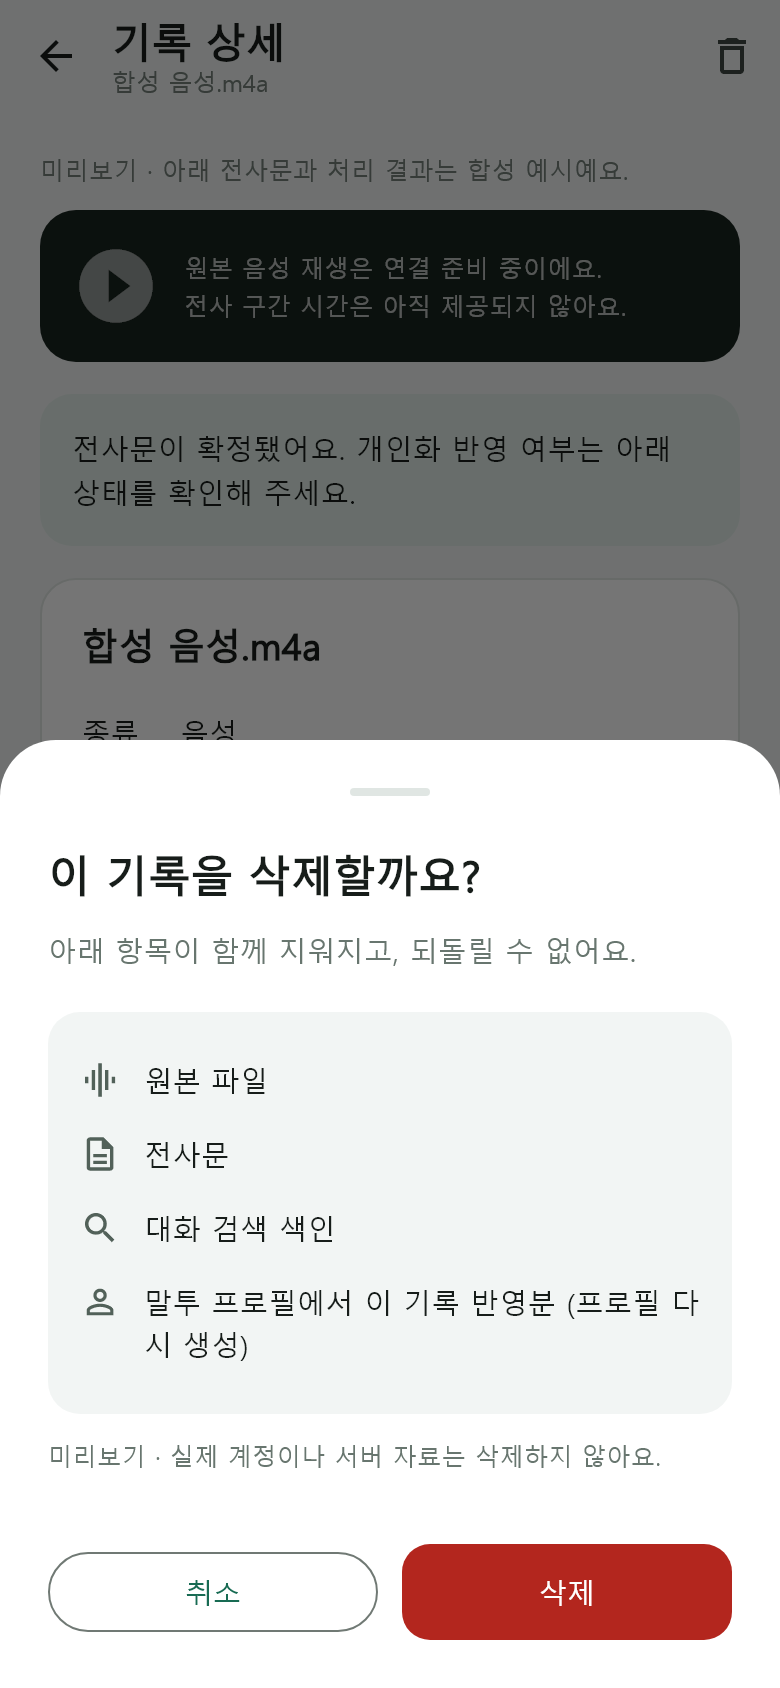
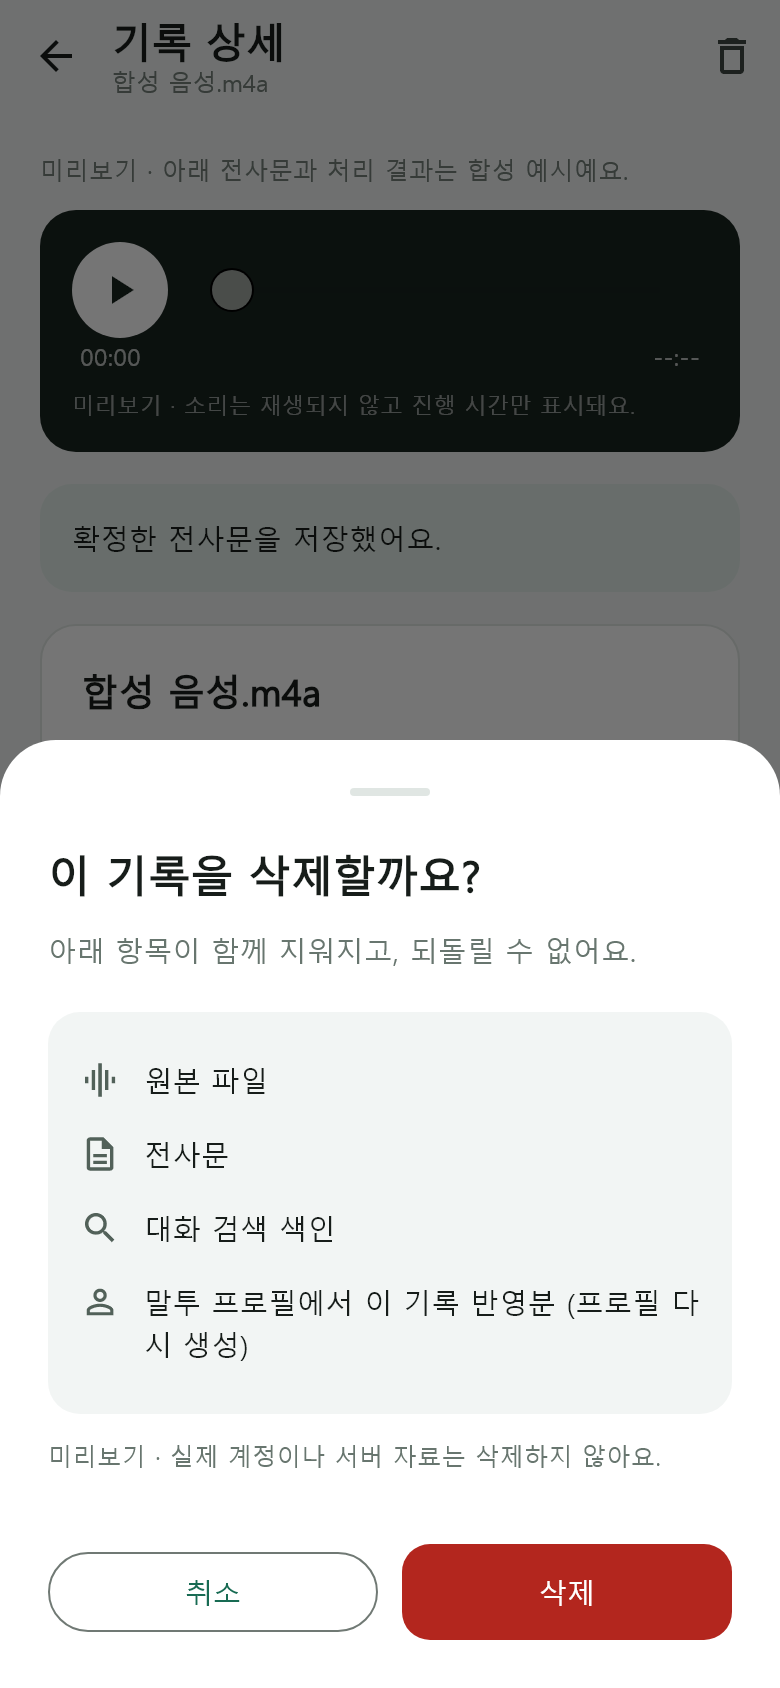
docs(mobile): refresh record screen captures
Re-render docs/screenshots/issue9 from the current record screens and
update the capture notes in the screenshot README, RECORDS.md, SC05.md
and SC06.md, which still described them as outdated images.

diff --git a/mobile/docs/screenshots/issue9/README.md b/mobile/docs/screenshots/issue9/README.md
@@ -1,13 +1,15 @@
 # 기록 화면 미리보기
 
-SC-03·SC-04 기획서를 참고해 390×844 논리 크기에서 Flutter 위젯을 렌더링한 이미지입니다. 실제 기기 캡처가 아닙니다. 합성 파일명·시간·길이·상태를 사용하며 실제 자료 업로드나 개인화 처리를 검증한 화면이 아닙니다.
+SC-03~SC-06 기획서를 참고해 390×844 논리 크기에서 Flutter 위젯을 렌더링한 이미지입니다. 실제 기기 캡처가 아닙니다. 합성 파일명·시간·길이·상태를 사용하며 실제 자료 업로드나 개인화 처리를 검증한 화면이 아닙니다.
 
-- `record-list.png`: 전체·유형 필터, 행 오른쪽의 상태 배지와 실패 항목, 확정 자료 안내. 재시도 API가 없는 서비스에서는 버튼을 비활성화합니다.
-- `record-upload.png`: 기록 종류 카드, 파일 카드·변경, 화자 선택 준비 안내, 동의 카드, 하단 고정 올리기와 취소.
-- `transcript-review.png`: SC-05 전사문 전체 수정, 원본 재생 미연결 안내, 확정 안내와 하단 버튼. API에 구간 시간이 없어 시간 표시는 만들지 않습니다.
-- `record-detail.png`: SC-06을 참고한 확정 기록 상세와 삭제 진입 버튼.
-- `record-delete-confirm.png`, `record-delete-partial-failure.png`: 이슈 #11의 삭제 확인 시트와 남은 검색 색인 표시. 모의 서비스가 반환한 상태이며 실제 파일 삭제 결과가 아닙니다.
+2026-11-13, 기준 커밋 `5f8385b`에서 아래 명령으로 전체를 다시 렌더링했습니다. `record-list.png`는 이전 캡처와 같은 결과가 나와 바뀌지 않았습니다.
 
-화자 목록·메시지 수를 추출하는 기능은 아직 없으며, 기획서의 예시 이름·숫자를 실제 분석 결과처럼 표시하지 않습니다. `ready`만으로 개인화 반영을 증명할 수 없어 실제 API 데이터에는 계속 ‘확인 필요’를 표시합니다. 캡처의 ‘반영됨’은 명시적으로 주입한 합성 상태입니다.
+- `record-list.png`: 전체·유형 필터, 행 오른쪽의 상태 배지(반영됨·확인 필요·전사 중)와 전사 실패 항목의 다시 시도, 확정 자료 안내, 하단 탭.
+- `record-upload.png`: 기록 종류 카드, 파일 카드·변경, 동의 카드, 하단 고정 올리기와 취소. 합성 파일이 일반 텍스트라 화자 선택 단계는 나타나지 않습니다.
+- `transcript-review.png`: SC-05 전사 확인. 미리보기 재생 바(소리 없이 진행 시간만 표시), 확정 안내, 번호가 붙은 전사 구간과 ‘전체 텍스트로 수정’, 하단 나중에·확정하기. 합성 전사에 구간 시간이 없어 구간 이동 불가 안내가 표시됩니다.
+- `record-detail.png`: SC-06 확정 기록 상세. 재생 바, 종류·올린 날·상태·확정일, 전사문 전체 보기, 반영 상태와 새로고침, 삭제 진입 버튼.
+- `record-delete-confirm.png`, `record-delete-partial-failure.png`: 이슈 #11의 삭제 확인 시트와 단계별 결과(검색 색인 남음)·다시 시도. 모의 서비스가 반환한 상태이며 실제 파일 삭제 결과가 아닙니다.
+
+캡처의 ‘반영됨’은 명시적으로 주입한 합성 상태입니다. 현재 ‘반영됨’은 텍스트 업로드 또는 음성 전사문 확정의 서버 저장 성공을 뜻하는 임시 기준이며, 실제 개인화·색인 완료를 증명하지 않습니다.
 
 Windows에서 캡처 재생성: `flutter test --no-pub test/records_design_test.dart --dart-define=RECORD_UI_CAPTURES=true`. 캡처 모드는 Windows 맑은 고딕과 `C:/flutter`의 Material Icons를 로드합니다. 일반 테스트는 해당 파일에 의존하지 않습니다.

diff --git a/mobile/RECORDS.md b/mobile/RECORDS.md
@@ -130,6 +130,6 @@ SC-03~SC-06 화면기획서(`레플리카 화면 기획서_ver.2`)와 2026-10-13
 - `records_transcript_test.dart`: 구간 파싱·검증·정렬, 재생 컨트롤러(지연 열기·탐색·실패 후 재시도·해제), 구간 탭 재생, 불확실 단어 강조, 구간 수정·확정, 시간 정보 없음, 전사 중 자동 갱신, 수정 충돌 선택.
 - `records_status_test.dart`: 반영 상태 판정, 목록 재조회 시 최신 revision·확정 시각 갱신과 조회 실패·동시 요청 격리, 합의 전 훅, 상태 폴링과 간격 조절, 삭제 단계·자동 확인·부분 실패, 계정 삭제 세션·로컬 데이터 정리.
 
-실제 서버, 실기기 파일 선택기·재생·권한, 대용량 전송은 검증하지 못했습니다. 합성 화면 캡처는 `docs/screenshots/issue9/`의 이전 이미지이며 이번 화면 변경은 반영하지 않았습니다. Windows 네이티브 실행은 플러그인의 심볼릭 링크 지원 요구로 현재 환경에서 검증하지 못했습니다. OS 설정은 변경하지 않았습니다.
+실제 서버, 실기기 파일 선택기·재생·권한, 대용량 전송은 검증하지 못했습니다. 합성 화면 캡처 `docs/screenshots/issue9/`는 2026-11-13 현재 화면으로 다시 렌더링했습니다([캡처 안내](docs/screenshots/issue9/README.md)). Windows 네이티브 실행은 플러그인의 심볼릭 링크 지원 요구로 현재 환경에서 검증하지 못했습니다. OS 설정은 변경하지 않았습니다.
 
 파일 선택기는 Flutter 공식 [file_selector](https://pub.dev/packages/file_selector) 1.1.0을 사용합니다. macOS에는 사용자가 선택한 파일의 읽기 권한을 추가했습니다.

diff --git a/mobile/SC06.md b/mobile/SC06.md
@@ -34,4 +34,4 @@
 
 ## 검증
 
-2026-11-05: 전체 테스트 통과(RECORDS.md 참고), 정적 분석 문제 없음, 웹 빌드 성공. `test/record_deletion_test.dart`(완료 판정, 중복 요청 방지, 취소 무요청, 부분 실패·같은 작업 재시도, 지연 응답, 목록 복구·초안 정리, 계정 삭제 전후 로그인 상태, 작은 화면, 실제 어댑터의 경로·인증과 미합의 요청 차단)와 `test/records_status_test.dart`(단계 목록, 자동 확인과 상한, 실패 작업의 수동 확인, 시도 횟수·오류 코드, 계정 삭제 시 세션·로컬 데이터 정리와 이전 세션 무시)에서 모의 응답으로 검사합니다. 실제 삭제는 실행하지 않았습니다. `docs/screenshots/issue9/record-delete-*.png`는 이전 합성 이미지입니다.
+2026-11-05: 전체 테스트 통과(RECORDS.md 참고), 정적 분석 문제 없음, 웹 빌드 성공. `test/record_deletion_test.dart`(완료 판정, 중복 요청 방지, 취소 무요청, 부분 실패·같은 작업 재시도, 지연 응답, 목록 복구·초안 정리, 계정 삭제 전후 로그인 상태, 작은 화면, 실제 어댑터의 경로·인증과 미합의 요청 차단)와 `test/records_status_test.dart`(단계 목록, 자동 확인과 상한, 실패 작업의 수동 확인, 시도 횟수·오류 코드, 계정 삭제 시 세션·로컬 데이터 정리와 이전 세션 무시)에서 모의 응답으로 검사합니다. 실제 삭제는 실행하지 않았습니다. `docs/screenshots/issue9/record-delete-*.png`는 2026-11-13 현재 화면으로 다시 렌더링한 합성 이미지입니다.

diff --git a/mobile/SC05.md b/mobile/SC05.md
@@ -33,4 +33,4 @@
 
 ## 검증
 
-2026-11-05: 전체 Flutter 테스트 통과(RECORDS.md 참고), 정적 분석 문제 없음, 웹 빌드 성공. 전사 구간·재생·수정 충돌 테스트는 `test/records_transcript_test.dart`, 기존 확인·확정 흐름은 `test/record_review_test.dart`에 있습니다. 모의 서비스·HTTP 응답·가짜 오디오 엔진으로 검사하며, 실제 기기의 원본 오디오 재생·STT·서버 반영 검증은 별도입니다. `docs/screenshots/issue9/transcript-review.png`, `record-detail.png`는 이전 합성 이미지이며 이번 변경을 반영하지 않았습니다.
+2026-11-05: 전체 Flutter 테스트 통과(RECORDS.md 참고), 정적 분석 문제 없음, 웹 빌드 성공. 전사 구간·재생·수정 충돌 테스트는 `test/records_transcript_test.dart`, 기존 확인·확정 흐름은 `test/record_review_test.dart`에 있습니다. 모의 서비스·HTTP 응답·가짜 오디오 엔진으로 검사하며, 실제 기기의 원본 오디오 재생·STT·서버 반영 검증은 별도입니다. `docs/screenshots/issue9/transcript-review.png`, `record-detail.png`는 2026-11-13 현재 화면으로 다시 렌더링한 합성 이미지입니다.
